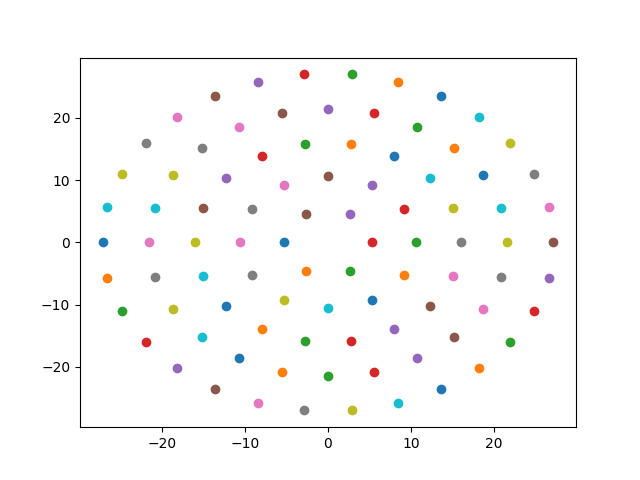
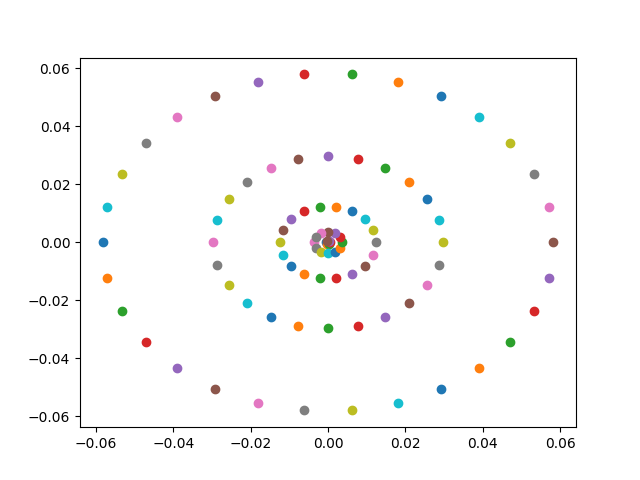
task 16 done

diff --git a/raytracer/analysis.py b/raytracer/analysis.py
@@ -271,9 +271,55 @@ def task16():
     Returns:
         tuple[Figure, float, float, float]: the plot, RMS for plano-convex, RMS for convex-plano, diffraction scale.
     """
+    radii = []
+    rms_pc = []
+    rms_cp = []
+    diff_val_pc = []
+    diff_val_cp = []
+    rms_3_5_pc = 0
+    rms_3_5_cp = 0
+    diff_3_5 = 0
+    pc = PlanoConvex(z_0=100, curvature1=0., curvature2=-0.02, n_inside=1.5168, n_outside=1., thickness=5., aperture=50.)
+    focal_point_pc = pc.focal_point_lens()
+    screen_pc = OutputPlane(focal_point_pc) 
+    cp = PlanoConvex(z_0=100, curvature1=0.02, curvature2=0., n_inside=1.5168, n_outside=1., thickness=5., aperture=50.)
+    focal_point_cp = cp.focal_point_lens()
+    screen_cp = OutputPlane(focal_point_cp)
+    for i in np.linspace(0.1, 10., 240): 
+        rb_pc = RayBundle(rmax=i, nrings=5., multi=6) #max radius 10 and min 0.1 milimeters
+        rb_cp = RayBundle(rmax=i, nrings=5., multi=6) #max radius 10 and min 0.1 milimeters
+        rb_pc.propagate_bundle([pc, screen_pc])
+        rb_cp.propagate_bundle([cp, screen_cp])
+        rms_pc.append(rb_pc.rms())
+        rms_cp.append(rb_cp.rms())
+        radii.append(i)
+        
+        
+        wavelength = 588e-6 #in milimeters
+        aperature = 2 * i #diameter of the refracting surface
+        del_x_pc = wavelength * focal_point_pc / aperature
+        del_x_cp = wavelength * focal_point_cp / aperature
+        diff_val_pc.append(del_x_pc)
+        diff_val_cp.append(del_x_cp)
 
+        if np.isclose(i, 3.5):
+            rms_3_5_pc = rb_pc.rms()
+            rms_3_5_cp = rb_cp.rms()
+            diff_3_5 = del_x_pc
+    
+    plt.plot(radii, rms_pc, label ="RMS value plano convex")
+    #plt.plot(radii, diff_val_pc, label = "Diffraction scale plano convex")
+    plt.plot(radii, rms_cp, label ="RMS value convex plano")
+    plt.plot(radii, diff_val_cp, label = "Diffraction scale for pc & cp")
+    plt.xlabel("Input beam radius (mm)")
+    plt.ylabel("Spot size (mm)")
+    
+    plt.legend()
 
-    return
+    print(rms_3_5_pc)
+    print(rms_3_5_cp)
+
+    return plt.gcf(), rms_3_5_pc, rms_3_5_cp, diff_3_5
 
 
 @SaveOutput("task17", plot_output_indices=itemgetter(0))
@@ -368,10 +414,10 @@ if __name__ == "__main__":
     #FIG14, TASK14_RMS, TASK14_DIFF_SCALE = task14()
 
     # Run task 15 function
-    FIG15_PC, FOCAL_POINT_PC, FIG15_CP, FOCAL_POINT_CP = task15()
+    #FIG15_PC, FOCAL_POINT_PC, FIG15_CP, FOCAL_POINT_CP = task15()
 
     # Run task 16 function
-    # FIG16, PC_RMS, CP_RMS, TASK16_DIFF_SCALE = task16()
+    FIG16, PC_RMS, CP_RMS, TASK16_DIFF_SCALE = task16()
 
     # Run task 17 function
     # FIG17, CP_RMS, BICONVEX_RMS = task17()

diff --git a/raytracer/elements.py b/raytracer/elements.py
@@ -58,11 +58,16 @@ class SphericalRefraction(OpticalElement):
                         return None #no real solutions to quad formula exists for negative discriminant
                 l1 = - dot_1 + np.sqrt(disc)
                 l2 = - dot_1 - np.sqrt(disc)
-                valid = [l for l in [l1, l2] if l > 0] #choosing positive root 
+                valid = [] 
+                for l in [l1, l2]:
+                        if l > 0: #ray travelling forward
+                                point = pos + l * direc #where the ray strikes the physical surface
+                                radial_distance = np.sqrt(point[0]**2 + point[1]**2) #Pythagoras' theorem
+                                if radial_distance <= self.__aperature: #if the ray hits the spherical point beyond the space aperature is filling
+                                        valid.append(point)
                 if len(valid) == 0:
-                        return None #if both roots are not valid
-                l = min(valid) #smallest possible positive root gives the first instance of intercept
-                intercept_pos = pos + l * direc #ray only travels forward, adding intercept distance to initial ray position in ray direction
+                        return None #if there are no valid points for both roots
+                intercept_pos = min(valid, key = lambda point: np.dot(point - pos, direc)) #if both roots are valid, detecting the ray that hits the surface first
 
                 return intercept_pos
         
@@ -77,13 +82,15 @@ class SphericalRefraction(OpticalElement):
                         return None
 
                 if curv == 0:
-                        normal = np.array([0, 0, 1])
+                        normal = np.array([0, 0, -1])
                 else:
                         rad = 1 / curv 
                         z0 = self.z_0()
                         centre = np.array([0, 0, z0 + rad])
                         normal = new_pos - centre #normal to a spherical surface
                         normal = normal / np.linalg.norm(normal) #finding direction
+                        if np.dot(normal, direc) > 0:
+                                normal = -normal #from Snell's Law
                 
                 new_direc = refract(direc, normal, n_1, n_2)
                 

diff --git a/raytracer/lenses.py b/raytracer/lenses.py
@@ -14,36 +14,18 @@ class PlanoConvex:
         #creating the two curvatures seperately
         self.__plane_surface = SphericalRefraction(z_0, aperture, curvature1, n_outside, n_inside) 
         self.__concave_lens = SphericalRefraction(z_0 + thickness, aperture, curvature2, n_inside, n_outside)
-    """
-    #creating the ray bundle
-    def create_ray(self):
-        rays = RayBundle() #automatically creates object with the given values
-        return rays
-    #creating the output plane at the focal point
-    def OutputPlane_lens(self):
-        screen_lens = OutputPlane(self.focal_point_lens())
-        return screen_lens
-    #creating a spot plot at the output plane
-    def spot_plot_lens(self):
-        rays = self.create_ray()
-        return rays.spot_plot()
-    """
-    
     def propagate_ray(self, ray): #propagating the rays in the bundle  
         self.__plane_surface.propagate_ray(ray)
         self.__concave_lens.propagate_ray(ray)
     #focal point calculator usign paraxial approximation, just propagating the ray through the refracting surface to see where it ends up
     def focal_point_lens(self):
         ray = Ray(np.array([0.1, 0, 0]), np.array([0, 0, 1]))
-
         self.propagate_ray(ray)
-
         pos = ray.pos()
         direc = ray.direc()
-
         l = -pos[0] / direc[0]
-        z_focus = pos[2] + l * direc[2] + self.__z_0 + self.__thickness #returns the z poisiton of the focal length
+        z_focus = pos[2] + l * direc[2] #returns the z poisiton of the focal length
 
         return z_focus
             
-    
+#class BiConvex:
